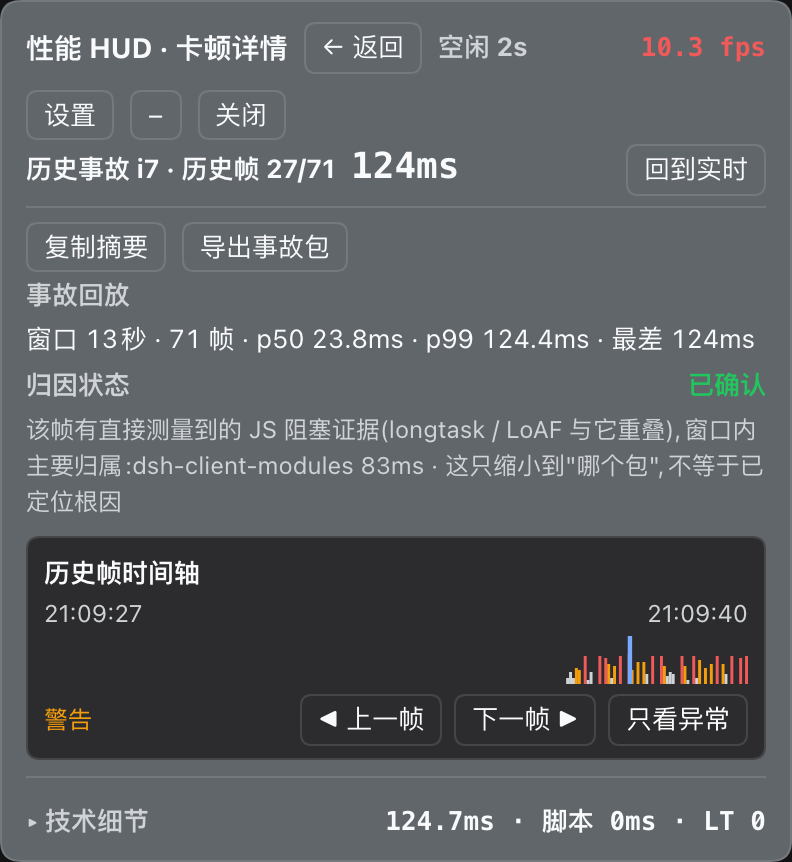
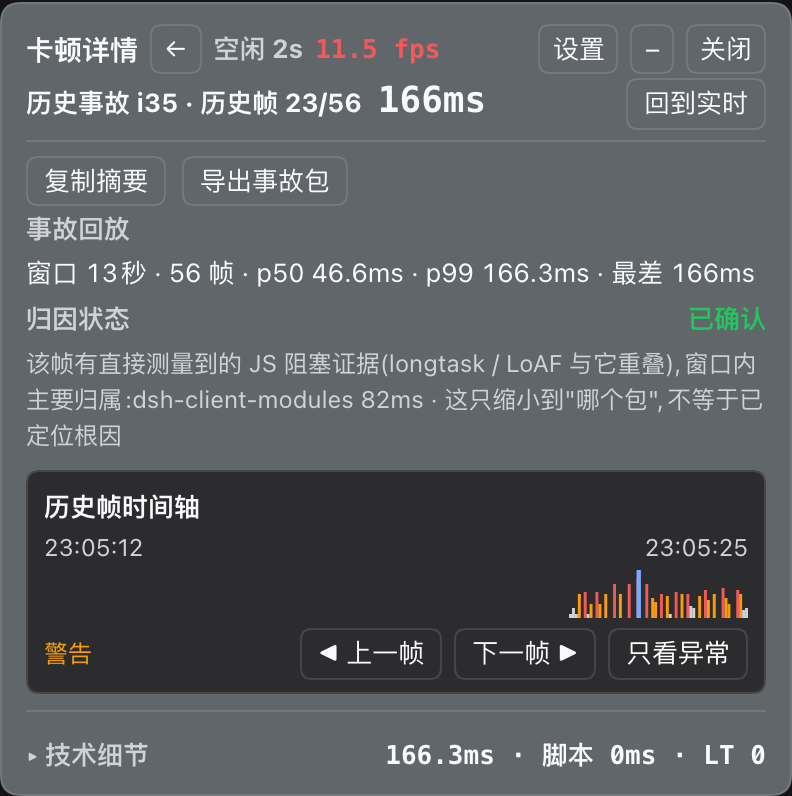
fix(panel): 标题栏改成一行永不换行,深录移出标题栏
标题栏原来是一行 `flexWrap: wrap`,分组靠 `59.9 fps` 上的 `margin-left: auto` 假装。这一行里
每个元素都是 `flex: 0 0 auto`(§5「标签不收缩」本来是给**数据行**写的),总宽一超,浏览器就按
DOM 顺序把**尾部三个控件整组**丢到第二行、还左对齐 —— 看着像下面那一块的动作按钮。主界面一行
放得下、卡顿详情放不下,于是同一个组件在不同视图下的"按钮位置关系不一样",那三个其实是全局控件。

改法(真页面量出来的账,396 面板 = 372 内容宽):
- `S.head` 去掉 `flexWrap`,显式分 `headLeft`(可压缩:`minWidth: 0` + `overflow: hidden`)与
  `headRight`(控件);标题 / 场景标签可让位(ellipsis),**控件不让位**。分组不再用 auto margin。
- 头部间距 8→6、头部按钮 `padding: 2px 6px`(`S.headBtn`,只作用于这一行)。
- **「深录」从标题栏移到开发者详情的标签页行**:它是唯一"只在某一屏出现"的头部控件,却占着最挤
  那一行(实测把该屏标题挤到 21px);标签页行本来就换行,多它一个不增高。
- 返回键文案 `← 返回` → `←`(悬停给"回到主界面");子页标题不再拼品牌名(「性能 HUD · 卡顿详情」
  → 「卡顿详情」,品牌名进悬停),它与下面第一行的上下文标题在回答同一个问题。

为什么非要算术而不是"看着塞得下":zh 详情页原来差约 14px,收紧后**仍差 0.17px** —— 亚像素级的
flex 收缩就足以让标题出省略号(用 `scrollWidth` 量还看不出来,得看 `getBoundingClientRect` 的小数,
`clientWidth` 会把它取整掉)。现在四个视图都是**一行、零溢出、零裁剪**:标题 70 / 56px 完整、
场景完整、控件在右端;英文下标题会让位(设计如此:文字让位、控件不让)。

回归测试:`logic.mjs` 新增四条静态断言(不换行 + 显式两组、没有 `margin-left: auto`、只有标题与
场景可让位、头部按钮 ≤4 个、深录不在标题栏而在标签页行)+ 一条词典长度预算(视图名 zh ≤5 字 /
en ≤17 字符)。验收底座:`tools/cdp.mjs` 的 `waitForHud` 判据从"含『性能 HUD』文案"改成"根节点存在
且文本非空" —— 子页标题不再含品牌名,而落盘的视图是滚动的,旧判据会把"上次停在开发者详情"报成
"boot 失败,或槽位条目被外壳停用"(实测踩过一次);`check-incident` / `check-counts` 按新文案点返回键。

验证:606 条离线断言全绿;真页面 `check-panel` / `check-incident` / `check-counts` / `check-storage`
四个验收器全绿;九张 README 截图重出(高度从两行头部的 519/463 降到 503/429)。

文档:AGENTS §5 新增"标题栏是一行永不换行的工具条"那条(含来历与三条实测硬性)、§0.1 深录开关位置、
README / README_EN 的返回键与深录位置、CHANGELOG。

diff --git a/client.js b/client.js
@@ -6712,7 +6712,7 @@ window.__ModuleLoader__.load({
 				packReadmePrivacy: '包内不含聊天正文、提示词、Cookie、Token 与请求头(不是筛掉了,是本来就没采);页面地址只保留 origin + path,用户目录降级成 ~,UA 只留主版本与系统。这是减法,不是匿名化。',
 				packReadmeNotes: '在别的工具里读 incident.json 时:帧的 t 是页面时间轴毫秒,要靠 incident.env.perfOrigin 换成墙钟;loaf 与 frames 是同一信号的两个视图,别相加;blocking 可以是 0 而这一帧仍然很重。',
 				// ── 视图模型(方案 1:主界面 / 卡顿详情 / 开发者详情 / 设置)──
-				viewDev: '开发者详情', viewSettings: '设置', back: '← 返回',
+				viewDev: '开发者详情', viewSettings: '设置', back: '←',
 				// ⚠ 这一组是补上来的:上一轮它们**只被引用、没进词典**,面板上直接印出了 key 名
 				// (viewIncident / packFilesLabel / storageKeys …)。新加的"引用的键必须在词典里"那条断言
 				// 专门挡这一类 —— 死键断言管不到它。
@@ -6918,7 +6918,7 @@ window.__ModuleLoader__.load({
 				packReadmePrivacy: 'The pack contains no chat text, prompts, cookies, tokens or request headers (never collected, not filtered out); page URLs keep origin + path only, home directories become ~, and the UA keeps just the major version and OS. This is subtraction, not anonymisation.',
 				packReadmeNotes: 'When reading incident.json elsewhere: frame t is page-timeline milliseconds and needs incident.env.perfOrigin to become wall clock; loaf and frames are two views of one signal, never add them; blocking can be 0 while the frame is still heavy.',
 				// view model (scheme 1: main / incident detail / developer details / settings)
-				viewDev: 'Developer details', viewSettings: 'Settings', back: '← Back',
+				viewDev: 'Developer details', viewSettings: 'Settings', back: '←',
 				viewIncident: 'Stall detail', backHint: 'Back to the overview (that screen only answers five questions)',
 				packFilesLabel: 'diagnostic pack', packFilesHint: 'the AI path: format note + summary + raw evidence + how to read it',
 				packFilesValue: 'manifest.json · summary.md · incident.json · README.md',
@@ -7033,8 +7033,19 @@ window.__ModuleLoader__.load({
 					? { width: 396, maxHeight: '82vh', overflowY: 'auto', overflowX: 'hidden', padding: '10px 12px' }
 					: { padding: '6px 10px' }),
 			}),
-			head: { display: 'flex', alignItems: 'center', gap: 8, flexWrap: 'wrap' },
-			brand: { fontWeight: 700, fontSize: 14, color: 'var(--dsw-alias-label-primary)' },
+			// ⚠ **头部一行永不换行**(以前是 flexWrap: 'wrap'):那一行里每个元素都是 `flex: 0 0 auto`
+			// (见下面 label / btn 那两条"不收缩"规则),一旦总宽超了就按 DOM 顺序把**尾部的控件整组**
+			// 丢到第二行、还左对齐 —— 看上去像下面那一块的按钮。现在分成显式两组:左组可压缩
+			// (标题 ellipsis 先让位),右组是不可让步的控件。分组也不再靠某个元素上的 margin-left:auto
+			// (那个技巧只在它所在的那一行生效,一换行就散)。
+			head: { display: 'flex', alignItems: 'center', gap: 6 },
+			headLeft: { display: 'flex', alignItems: 'center', gap: 6, flex: '1 1 auto', minWidth: 0, overflow: 'hidden' },
+			headRight: { display: 'flex', alignItems: 'center', gap: 6, flex: '0 0 auto' },
+			// 工具条的按钮比正文里的按钮窄一点(padding 8→6):这一行是不可换行的,省下的 4px × 3
+			// 就是"标题还能不能完整显示"的差价(实测:不收紧时 zh 详情页差 14px,标题被裁到 48px)
+			headBtn: { padding: '2px 6px' },
+			// 标题是这一行里唯一可以让步的元素:窄了出省略号,而不是把控件挤到第二行。
+			brand: { fontWeight: 700, fontSize: 14, color: 'var(--dsw-alias-label-primary)', minWidth: 0, overflow: 'hidden', textOverflow: 'ellipsis', whiteSpace: 'nowrap' },
 			row: { display: 'flex', alignItems: 'baseline', justifyContent: 'space-between', gap: 12, marginTop: 4 },
 			// 标签不换行、不收缩(原来 flex:1 1 auto 会被长数值挤成一字一行);
 			// 数值占满剩余宽度、右对齐、必要时在自己那一列换行。
@@ -7449,7 +7460,13 @@ window.__ModuleLoader__.load({
 			return kids;
 		}
 
-		/** 开发者详情的标签页行:一次看一组,不把技术数据全铺在一屏(能力一个都没删)。 */
+		/**
+		 * 开发者详情的标签页行:一次看一组,不把技术数据全铺在一屏(能力一个都没删)。
+		 * 尾部跟着「深录」—— 它是插桩开关(有代价、默认关),只属于这一屏与设置页。**它不放在
+		 * 标题栏里**:那一行是不可换行的工具条(见 S.head 的说明),而它是唯一"只在某一屏出现"的
+		 * 控件 —— 实测把这一屏的标题挤到 21px(≈1.5 字)。这一行本来就换行(五个标签页本来就两行),
+		 * 多它一个不增高。
+		 */
 		function devTabRow(props) {
 			const t = translate;
 			const tab = props.tab;
@@ -7464,7 +7481,13 @@ window.__ModuleLoader__.load({
 				row('dom', t('devTabDom'), t('devTabDomHint')),
 				row('host', t('devTabHost'), t('devTabHostHint')),
 				row('tools', t('devTabTools'), t('devTabToolsHint')),
-				row('raw', t('devTabRaw'), t('devTabRawHint')));
+				row('raw', t('devTabRaw'), t('devTabRawHint')),
+				h('button', {
+					type: 'button',
+					style: { ...S.btn, color: state.deep ? 'var(--dsw-alias-brand-primary)' : undefined },
+					title: t('deepHint'),
+					onClick: () => setDeep(state.deep === false),
+				}, `${t('deepShort')}${state.deep ? '✓' : ''}`));
 		}
 
 		/**
@@ -7950,7 +7973,7 @@ window.__ModuleLoader__.load({
 				frame === null ? null : `${Math.round(frame.ms ?? 0)}ms`,
 				h('button', { type: 'button', style: S.btn, title: t('backToLiveHint'), onClick: showLiveMode }, t('backToLive'))));
 			// 这一屏**唯一**的动作条:返回在标题栏(每个视图都有),这里只回答"这条事故怎么办"。
-			// 以前它在视图外面又写了一份返回 + 这两个动作 —— 同屏两个「← 返回」,位置还不一样。
+			// 以前它在视图外面又写了一份返回 + 这两个动作 —— 同屏两个「←」返回,位置还不一样。
 			kids.push(h('div', { style: S.buttons },
 				h('button', { type: 'button', style: S.btn, title: t('copySummaryHint'), onClick: () => copyText(incidentSummaryText(row), t('copySummary')) }, t('copySummary')),
 				h('button', { type: 'button', style: S.btn, title: t('exportIncidentBtnHint'), onClick: () => exportIncident(row.id) }, t('exportIncidentBtn'))));
@@ -8201,21 +8224,19 @@ window.__ModuleLoader__.load({
 			const view = state.view === 'incident' && state.watch.mode !== 'incident' ? 'main' : state.view;
 			const viewTitle = view === 'dev' ? t('viewDev') : view === 'settings' ? t('viewSettings') : t('viewIncident');
 			const head = h('div', { style: S.head },
-				h('span', { style: S.brand }, view === 'main' ? t('title') : `${t('title')} · ${viewTitle}`),
-				view === 'main' ? null : h('button', { type: 'button', style: S.btn, title: t('backHint'), onClick: () => setView('main') }, t('back')),
-				h('span', { style: { ...S.label, color: scene.color } }, scene.text),
-				h('span', { style: { ...S.num, flex: '0 0 auto', marginLeft: 'auto', color: levelFrame(state.fps, state.frameWorst) } }, `${state.fps.toFixed(1)} fps`),
-				// 「深录」是插桩开关(有代价、默认关):它只属于**开发者详情**那一屏与设置页。
-				// 以前它在每个视图的标题栏里都有一份,普通用户在卡顿详情里看到它只能猜。
-				view === 'dev' ? h('button', {
-					type: 'button',
-					style: { ...S.btn, color: state.deep ? 'var(--dsw-alias-brand-primary)' : undefined },
-					title: t('deepHint'),
-					onClick: () => setDeep(state.deep === false),
-				}, `${t('deepShort')}${state.deep ? '✓' : ''}`) : null,
-				h('button', { type: 'button', style: S.btn, title: t('settingsHint'), onClick: () => setView(view === 'settings' ? 'main' : 'settings') }, t('viewSettings')),
-				h('button', { type: 'button', style: S.btn, title: open ? t('collapse') : t('expand'), onClick: toggle }, open ? '–' : '+'),
-				h('button', { type: 'button', style: S.btn, title: t('turnOff'), onClick: () => setEnabled(false) }, t('turnOff')));
+				h('div', { style: S.headLeft },
+					// 子页只写视图名:「性能 HUD ·」那一段与下面第一行的上下文标题(`历史事故 i35xx · 历史帧 …`)
+					// 说的是同一件事(我在哪),而它是这一行里唯一能让位的文字。品牌名进悬停。
+					h('span', { style: S.brand, title: t('title') }, view === 'main' ? t('title') : viewTitle),
+					view === 'main' ? null : h('button', { type: 'button', style: { ...S.btn, ...S.headBtn }, title: t('backHint'), onClick: () => setView('main') }, t('back')),
+					// 场景标签与标题一样是**文字**,一样可以让位(先出省略号):不变的是控件。
+					// 少了这一条,开发者详情那一屏(返回 + 深录 + 设置 + 收起 + 关闭)在 zh 下仍会超 ~16px。
+					h('span', { style: { ...S.label, color: scene.color, flex: '0 1 auto', minWidth: 0, overflow: 'hidden', textOverflow: 'ellipsis' } }, scene.text),
+					h('span', { style: { ...S.num, flex: '0 0 auto', color: levelFrame(state.fps, state.frameWorst) } }, `${state.fps.toFixed(1)} fps`)),
+				h('div', { style: S.headRight },
+					h('button', { type: 'button', style: { ...S.btn, ...S.headBtn }, title: t('settingsHint'), onClick: () => setView(view === 'settings' ? 'main' : 'settings') }, t('viewSettings')),
+					h('button', { type: 'button', style: { ...S.btn, ...S.headBtn }, title: open ? t('collapse') : t('expand'), onClick: toggle }, open ? '–' : '+'),
+					h('button', { type: 'button', style: { ...S.btn, ...S.headBtn }, title: t('turnOff'), onClick: () => setEnabled(false) }, t('turnOff'))));
 
 			if (open === false) {
 				// 折叠不是"看不见":至少留下 fps / 最差帧 / 最差 longtask 三个读数。

diff --git a/AGENTS.md b/AGENTS.md
@@ -22,7 +22,7 @@
 | **现场**(展开面板) | 想看一眼 | **主界面**只回答五个问题(当前状态 / 最近一次卡顿 / 可能原因 / 最近趋势 / 下一步);技术数据进**开发者详情**的五个标签页(帧与归因 / DOM 与堆 / 宿主与链路 / 工具箱 / 原始数据,内层仍是 `state.groups` = `detail` / `cross` / `dom` / `host` / `tools` / `tech`)。**卡顿详情**是"普通用户也会走到"的技术屏,所以它分两层:结论层常显(上下文标题 / 这条事故的两个动作 / 回放范围 / 归因状态 / 历史帧时间轴),技术读数全在默认收起的 `tech`(「技术细节」)里 —— 与开发者详情**共用同一份渲染**(`techGroup`) | 可忽略 |
 | **深录**(显式) | 要抓全 | 才打开原型插桩(DOM 写入 1/10 采样 + 调度点抓栈)与「精确归因」 | 有代价,必须显式开 |
 
-> ✅ **这张表现在是真的了(2026-10-08,D1)**:在那之前插桩没有独立开关 —— `start()` 一跑就把 `setTimeout/setInterval/rAF` 与 `appendChild/insertBefore/setAttribute` 全包上,「守夜 = 零插桩」只是文档上的话。现在插桩被拆进 `applyProbeState()`,只在 `state.deep` 打开时装(开关在**开发者详情标题栏**与设置页 —— 它是开发者开关,不该在每个视图的标题栏里出现),深录同时管精确归因(两者是「要抓全」的同一件事)。实测:默认 `instrumented: false`,点开 → `true`,点回去 → `false`,面板 `errors` 全程 0。
+> ✅ **这张表现在是真的了(2026-10-08,D1)**:在那之前插桩没有独立开关 —— `start()` 一跑就把 `setTimeout/setInterval/rAF` 与 `appendChild/insertBefore/setAttribute` 全包上,「守夜 = 零插桩」只是文档上的话。现在插桩被拆进 `applyProbeState()`,只在 `state.deep` 打开时装(开关在**开发者详情的标签页行**与设置页 —— 它是开发者开关,不该占标题栏那一行),深录同时管精确归因(两者是「要抓全」的同一件事)。实测:默认 `instrumented: false`,点开 → `true`,点回去 → `false`,面板 `errors` 全程 0。
 
 **明确不做**(生态里已经有人做了;重复做比谁都不做更糟,详见 §12):
 
@@ -202,6 +202,7 @@ scope 用固定这几个:`client` / `host` / `attribution` / `panel` / `isolatio
 - **长文本用块式 + 主动断行**:可能超一行的行(概览、折叠摘要)用"标签独占一行 + 值左对齐 + `white-space: pre-line` 自己给 `\n`",不要赌浏览器宽度(曾断在 `最多` 后面,把 `ChatView 22×` 甩到下一行)。
 - **能不说就不说**:「最多」与「最差那条」名字相同时整行不显示(它只是把同一句话说两遍);说明文字放 `title` 悬停,不占正文。概览两行同理:`overviewLine1()` **已删掉 `(最差那条:未归因)` 后缀** —— 它与紧接着的 `overviewLine2()` 里 `最差那条:<归属>` 的**触发条件完全相同**(都是 `primaryBlame(worst) === null`),相邻两行必然把同一句话说两遍;现在第一行只给 `帧 Xms · LT Yms · 命中 a/b`,「最差那条是谁」只由第二行给,两个口径本该分开读的提醒由第二行自己的标签承担(断言:第一行不含 `未归因`、第二行含)。「最差事件」块同理:`eventValueText(row)` 一行说清三种状态(未开录 → `未开录`;没有事故 → `还没抓到(≥100ms)` —— 阈值写在这一行里,不再另起一行重复;有事故 → `严重/警告 326ms`),`watchFlagText()` 只在"读回 / 裁掉 / 落盘失败"这类**还有话要说**时才返回第二行,未开录与"还没抓到"都不重复。两个一次性说明(`state.copyNote` / `state.pickNote`)由 `resetLayout()` 一并清掉 —— 布局都回到默认了还挂着旧说明,只会让人以为又出错了。
 - **长度预算**:概览两行与**六个**折叠组摘要都有字符上限(36 / 60 / **26** / 30 / 34 / 24 / **40** / **30**,顺序 = 概览两行 + 取证明细 / DOM 与堆 / 宿主与链路 / 工具箱 / **包 × 来源** / **技术细节**),由 `tests/logic.mjs` 钉住 —— 本会话看不到浏览器渲染,只能靠预算把"又挤成三行"这类回归钉在测试里。改文案必须重跑。**这份清单以断言为准**:AGENTS 里这行曾写成 34(记的是另一组数字),对不上时改文档,不要改断言。第五组「包 × 来源 · 窗口」的摘要(`crossSummary`)从"没有预算"补上了 —— 它的名字与来源都可能很长(`dsh-client-ui-renderer · DOMWebSocket.onmessage 1234ms` 实测 **53** 字符,在 396px 里会折行),现在用 `clipName()` 把两个名字各自截到 `CROSS_SUMMARY_NAME_MAX` / `CROSS_SUMMARY_SRC_MAX`(14 / 15,完整名字在展开后的交叉表里)。补预算时要拿**真实量级**的名字(见 §8 第 13 条)。
+- **标题栏是**一行永不换行**的工具条:显式左右两组,只有文字可以让位**。`S.head` 不带 `flexWrap`,分 `headLeft`(可压缩:`minWidth: 0` + `overflow: hidden`,里面是标题 / 返回键 / 场景标签 / fps)与 `headRight`(控件,`flex: 0 0 auto`:设置 / 收起 / 关闭)。来历是一次真事故:工具条里每个元素都是 `flex: 0 0 auto`(上面「标签不收缩」那条本来是给**数据行**写的),总宽一超,浏览器就按 DOM 顺序把**尾部三个控件整组**丢到第二行、还左对齐 —— 看着像下面那一块的动作按钮;主界面一行放得下、卡顿详情放不下,于是"两个头部的按钮位置关系不一样"。分组也**不许**再用某个元素上的 `margin-left: auto`(那个技巧只在它所在的那一行生效,一换行就散)。三条实测出来的硬性:① 文字优先级是**标题 > 场景标签 > 其余**,场景用 `flex: 0 100 auto` 先让位(「空闲…」还读得出要紧的那个词,「开发者详…」等于没写);② **亚像素收缩就足以触发省略号** —— zh 详情页原来只差 0.17px,所以头部间距用 6、头部按钮 `padding: 2px 6px`(`S.headBtn`,只作用于这一行);③ **新增头部控件前先量**:头部预算现在是 4 个控件 + 标题 / 场景 / `←`,「深录」因此从标题栏移到了开发者详情的标签页行(它是唯一"只在某一屏出现"的头部控件,却占着最挤那一行 —— 实测把该屏标题挤到 21px)。`← 返回` 缩成 `←`(悬停给全文)也是这笔账的结果。
 - **单位一致性**:同一张表里不许一处给 `/s`、另一处给累计;任何"和邻居不同单位"的读数都要有断言(曾出现"上面是 /s、下面给累计")。
 - **折叠组默认不做昂贵分析,现在由 `group()` 的 thunk 保证**:`group(key, label, summary, ...children)` 支持"唯一一个 child 且是个函数"的形式,折叠时**连函数体都不进**;六个调用点(`detail` / `cross` / `dom` / `host` / `tools` / `tech`)全传 thunk,所以「取证明细」与「技术细节」收起时脚本按包 / 交叉表 / 帧条一次都不算。代价要记住:**`cross` 嵌在「取证明细」的 thunk 里,「技术细节」又嵌着「取证明细」那条链上的同一批块** —— 一展开任一层,调用方就先构造 `crossTable(scriptPkgTally())` 与 `kids` 数组(4×5 格,代价低),所以窗口聚合那份缓存不能省。摘要那一行(`techSummary`)即使收起也会被求值,所以它**只读已经算好的 `detail`**,不重新采、不重新解析。
 - **可点 / 不可点的界线(不要做假按钮)**:可点 = 「按来源 / 按包」小表的**具名行**(→ `copyText` 复制「名字 + 毫秒」,成功/失败都照实写进 `state.copyNote`)、工具箱事故清单行(→ 选中)、帧条**有 LoAF 的格子**(→ 钉住那一帧)、组头(→ 折叠)、**可疑脚本的每一行**(→ 复制那条证据行);**不可点** = 堆叠条的**色段**本身(`cursor` 是 `default`)、「其余」那一行(它是合计数,没有单个名字可复制)。
@@ -268,7 +269,7 @@ scope 用固定这几个:`client` / `host` / `attribution` / `panel` / `isolatio
 - **场景标签**(标题栏 `流式` / `空闲 Ns`)是解读所有数字的前提;空闲基线要 60 秒净增为 0 才算真的空闲。
 - **发生频次与留存份数是两套数据(2026-10-12 起)**:`state.watch.captured/coalesced/dropped/trimmedByBytes/deduped` 是**本次会话**的计数器(刷新即归零,只进导出件的 `context.store` / `watch`);`state.tally` 是**跨刷新**的时间桶(`LS_TALLY` = `dsh-perf-hud:tally:v1`,分钟桶 `TALLY_MINUTES`=1440 ≈ 24h + 日汇总 `TALLY_DAYS`=30,桶是 `TALLY_FIELDS` 那 7 元数组)。口径只有一个:**检测到 = triggered**(一次卡顿一串触发只算一次;被 `triggerCapture` 并进 pending、或落在 `coveredUntil` 里的触发**不算新的一次**)/ **coalesced 是同串密度,不是次数**(把两者相加会把一次停顿记成十几次,实测踩过)/ **已保存现场 = `incidents.length`** / **丢失 = (triggered − captured) + dropped + trimmed + failed**。为什么必须两套:留存清单受容量限制(最差 10 + 每天 1),拿它回答"最近一小时几次"会系统性少报 —— 被挤掉的卡顿不是没发生。三条不许越界:① 折叠药丸那一格说的是**检测到**(24h、跨刷新),不是留存份数;② `clearIncidents()` **不清**计数桶(清掉的是证据,不是事实),要清频次得显式 `clearTally()`;③ 窗口边界落在**分钟桶**上,`tallyWindow()` 把 `coveredFromMs/coveredToMs` 一起给出来,写范围时用它,不许吹成"正好 24 小时"。落盘走 2 秒合并定时器(`markTallyDirty`):一次卡顿里 `coalesced` 每帧都会加,不能每帧写盘;读回时形状不对的桶**整桶丢掉**并把原因记进 `tally.loadError`,不静默当成 0。
 - **能力矩阵与诊断包各只有一处来源(2026-10-12 起)**:`capabilities()` 是"哪一层采到了 / 哪一层没有 / 为什么 / 属于哪一档出处"的**唯一事实来源**(叶子形如 `{ state, provenance, reason }`,state ∈ on/degraded/off/unsupported,provenance ∈ measured/inferred/unknown);事故包那串 `missing:` / `howToAdd` **由 `capabilityMissing(row)` 从它推出来**,不再是手写的一串 `if` —— 但每一行的 `前缀:` 形状必须保留(线上与离线都按前缀断言)。`causeCandidates(row)` 是"可能原因"的**唯一生成处**(面板与诊断包读同一份),三条不许越界:① 每条候选都带 `limits`,而且限制里一定有那句"不等于已定位根因";② `worstFrameJs === 'none'` 时不给节流结论,只有 `summary.suspectedThrottle` 成立才写成"更像…";③ `basis` 全部来自已采到的字段。`buildPack` / `manifestFor` / `diagnosticSummary` / `packPreview` 是**纯函数**(不碰 DOM),所以离线套件能直接断言格式 —— 摘要按固定五段(摘要 / 假设 / 缺失 / 下一步 / 元信息),`incident.json` 与面板「导出事故包」同源,包内不含聊天正文 / 提示词 / Cookie / Token / 请求头(本来就没采,不是筛掉的)。⚠ 加正文文案时注意:摘要里**借用**的 `missing` 行本身带 markdown 记号(那是给 .md 读的),而**面板正文**仍不许带(有断言钉住 `VISIBLE_PLAIN_KEYS`)。
-- **界面是四个视图 + 开发者详情五标签页(方案 1,2026-10-12)**:`state.view` ∈ `main` / `incident` / `dev` / `settings`,`state.devTab` ∈ `frames` / `dom` / `host` / `tools` / `raw`,落盘只存这三个字段(`LS_VIEW`),**不存任何读数**。三条硬性:① **主界面只读纯函数**(`healthVerdict` / `causeCandidates` / `trendSummary` / `selectedIncident`),界面自己不做推断 —— 与 `detailContext()` 同一条规矩;② **视图只在被选中时构造**(`view === 'incident' ? incidentDetail(detailContext()) : null`):`incidentDetail` 要求"现在真的在历史上下文里",无条件先算一遍会在实时上下文里抛错(实测:面板整块被外壳停用,而三套件全绿);③ **监测不可用不许伪装成正常**:HUD 关着 / LoAF 没装上时主界面给"监测受限" + 原因,阈值与判色共用 `frameLevel()`。开发者详情的五个标签页**照实映射现有分组**(帧与归因 = 概览 + 最差事件 + 回调归因 + 取证明细;DOM 与堆;宿主与链路;工具箱;原始数据 = 导出与存储键位),不硬套概念图的名字。折叠药丸展开时**回到主界面**(普通用户点开不该看到一屏技术数据)。**卡顿详情那一屏要按"普通用户也会走到"来排**:常显只有结论层(上下文标题 / 复制摘要 / 导出事故包 / 回放范围 / 归因状态 / 历史帧时间轴),技术读数全在 `tech`(「技术细节」)里默认收起,而那一组与开发者详情**共用同一份渲染**(`techGroup` → 环 / 脚本拆解 / long task / 可疑脚本 / 交叉表 / 口径)—— 以前同一份 `incidentDetail` 在开发者详情里是可折叠的、在普通用户那一屏却是**全平铺**的,方向正好反了。另两条同源收敛:① 一屏只有一个「← 返回」(标题栏;视图外那一行动作已删);② 事故 id 与"这一帧多少 ms"各只印一次(上下文标题),时间轴卡里不重复。
+- **界面是四个视图 + 开发者详情五标签页(方案 1,2026-10-12)**:`state.view` ∈ `main` / `incident` / `dev` / `settings`,`state.devTab` ∈ `frames` / `dom` / `host` / `tools` / `raw`,落盘只存这三个字段(`LS_VIEW`),**不存任何读数**。三条硬性:① **主界面只读纯函数**(`healthVerdict` / `causeCandidates` / `trendSummary` / `selectedIncident`),界面自己不做推断 —— 与 `detailContext()` 同一条规矩;② **视图只在被选中时构造**(`view === 'incident' ? incidentDetail(detailContext()) : null`):`incidentDetail` 要求"现在真的在历史上下文里",无条件先算一遍会在实时上下文里抛错(实测:面板整块被外壳停用,而三套件全绿);③ **监测不可用不许伪装成正常**:HUD 关着 / LoAF 没装上时主界面给"监测受限" + 原因,阈值与判色共用 `frameLevel()`。开发者详情的五个标签页**照实映射现有分组**(帧与归因 = 概览 + 最差事件 + 回调归因 + 取证明细;DOM 与堆;宿主与链路;工具箱;原始数据 = 导出与存储键位),不硬套概念图的名字。折叠药丸展开时**回到主界面**(普通用户点开不该看到一屏技术数据)。**卡顿详情那一屏要按"普通用户也会走到"来排**:常显只有结论层(上下文标题 / 复制摘要 / 导出事故包 / 回放范围 / 归因状态 / 历史帧时间轴),技术读数全在 `tech`(「技术细节」)里默认收起,而那一组与开发者详情**共用同一份渲染**(`techGroup` → 环 / 脚本拆解 / long task / 可疑脚本 / 交叉表 / 口径)—— 以前同一份 `incidentDetail` 在开发者详情里是可折叠的、在普通用户那一屏却是**全平铺**的,方向正好反了。另两条同源收敛:① 一屏只有一个返回键(标题栏;视图外那一行动作已删);② 事故 id 与"这一帧多少 ms"各只印一次(上下文标题),时间轴卡里不重复。
 - **命中 a/b** = 四条腿任一给出名字的长任务数 / 长任务总数。**它会被 DOM 腿抬高**(流式时写入窗口内几乎必然有写入),必须配合「归属 Top」分布读。
 - **帧内未归因**(2026-10-07 起在「取证明细」组里,不在常显):`idle = 帧间隔 − 插桩回调耗时`,所以**没插桩时它退化成平均帧间隔**(实测 16.7ms 被当成未归因)—— 那时面板直接写「要深录」,连"该帧几乎无 JS 解释"的结论也不报(`unexplainedFrame` 先要求 `state.deep === true`;不要求的话这条结论在**每一条**长帧上都成立,等于恒报)。插桩后:峰值 ≈ 最差帧(≥95%)时给结论,并提示用 Rendering 面板的 Paint flashing 交叉验证。**CSS 动画只在这里现形**(它不经 JS 调度器)。
 - **帧严重度只有一个口径:`frameSeverity(row) = max(blocking, 帧时长)`** —— 判据、排序、标签**同一个函数**(以前 `worstLoaf` / `loafRanks` 只看 `blocking`、`pickList` 看 `max`,于是"自动选中的那条"可能不在清单里,标签显示 `帧 0/N`)。⚠ **不能只看 `blocking`**:实测一次 45 帧的会话里 `blocking` **全部 < 100ms**(最大值 92ms),只看它会让清单退回"全部",而"帧时长"才是面板自己的严重度口径(判色 120/200ms、圆环上 `帧里花在哪` 也是它)。

diff --git a/README.md b/README.md
@@ -151,7 +151,7 @@ dsh plugin --profile web add "$PWD"
 | 视图 | 给谁 | 回答什么 |
 |---|---|---|
 | **主界面**(默认) | 普通用户 | 现在顺不顺 / 最近一次卡了多久、什么时候 / 可能是什么原因(每条都带**支持与限制**)/ 最近 1 小时或 24 小时发生几次、有没有重复线索;两个主操作是「查看这次卡顿」与「导出诊断报告」 |
-| **卡顿详情** | 想看那一次 | 独立一屏,顶部是「← 返回」;**默认只给结论层** —— 窗口范围、归因状态、真实时间轴与翻帧(◀ ▶ + 「只看异常」),加上对这条事故的两个动作(复制摘要 / 导出事故包);**技术读数收在默认折叠的「技术细节」里**(帧内分解 / 脚本细拆 / 重叠 long task / 可疑脚本 / 包 × 来源 / 口径),展开才看 —— 数据全部来自**它自己**的事故包 |
+| **卡顿详情** | 想看那一次 | 独立一屏,顶部有一个返回键(「←」,悬停给"回到主界面");**默认只给结论层** —— 窗口范围、归因状态、真实时间轴与翻帧(◀ ▶ + 「只看异常」),加上对这条事故的两个动作(复制摘要 / 导出事故包);**技术读数收在默认折叠的「技术细节」里**(帧内分解 / 脚本细拆 / 重叠 long task / 可疑脚本 / 包 × 来源 / 口径),展开才看 —— 数据全部来自**它自己**的事故包 |
 | **开发者详情** | 开发者 | 5 个标签页:**帧与归因** / **DOM 与堆** / **宿主与链路** / **工具箱** / **原始数据** —— 现有能力一个都没删,只是从"一屏铺开 + 折叠组"变成"选一个标签页看一组"(「深录」开关只在这一屏的标题栏与设置页出现) |
 | **设置** | 所有人 | 记录模式(守夜默认常开 / 深录要显式开)、数据保留策略、隐私与脱敏口径 |
 
@@ -176,7 +176,7 @@ dsh plugin --profile web add "$PWD"
 ### 怎么走到每一屏
 
 1. **展开**:点右下角药丸的 `+` → 回到**主界面**(药丸上那三个数是 fps / 最差帧 / 最近 24 小时检测到几次);
-2. **看那一次卡顿**:主界面「查看这次卡顿」→ **卡顿详情**(顶部「← 返回」回主界面);这一屏默认只有结论与时间轴,想看这一帧的时间去向就展开「▸ 技术细节」;
+2. **看那一次卡顿**:主界面「查看这次卡顿」→ **卡顿详情**(顶部「←」回主界面);这一屏默认只有结论与时间轴,想看这一帧的时间去向就展开「▸ 技术细节」;
 3. **看技术数据**:主界面底部「开发者详情(技术数据)」→ 五个标签页(「深录」开关在这一屏的标题栏与设置页);标题栏右上「设置」→ 设置页;
 4. **交给 AI**:主界面「导出诊断报告」→ 先出**预览卡**(四份文件 + 压缩包大小 + 「备注:已置空」)→「生成并导出」下载**一个 zip**;
 5. **本机排查**:开发者详情 · 原始数据里有「完整技术导出(保留备注)」——那条路**保留**你手敲的备注,不是脱敏件,别直接交出去。
@@ -196,7 +196,7 @@ dsh plugin --profile web add "$PWD"
 |---|---|---|---|
 | **守夜**(默认) | 一直开着 | 帧级环形缓冲 + LoAF 观察器 + 交互计时;自动留存最差 10 次 + 每天最差 1 条 | **零插桩**:只挂本来就在跑的 rAF 和两个 `PerformanceObserver`,不动任何全局 |
 | **现场** | 想看一眼,展开面板 | 概览 / 最差事件 / 回调归因 Top3 / 守夜那行;其余五组折叠 | 与守夜**同一档采集** —— "展开看看"不会改变被测对象 |
-| **深录** | 开发者详情标题栏的「深录」/ 设置页 | 才装上 `setTimeout` / `setInterval` / `rAF` 与 DOM 写入的包装,并顺带拉那份 12MB 的合并批 sourcemap(精确归因) | 有代价,**必须显式开**;关掉立刻还原成原生引用 |
+| **深录** | 开发者详情的标签页行 / 设置页 | 才装上 `setTimeout` / `setInterval` / `rAF` 与 DOM 写入的包装,并顺带拉那份 12MB 的合并批 sourcemap(精确归因) | 有代价,**必须显式开**;关掉立刻还原成原生引用 |
 
 **开发者详情**里分五个标签页(帧与归因 / DOM 与堆 / 宿主与链路 / 工具箱 / 原始数据 —— 见上一节「界面结构」),每个标签页里的组(取证明细 / **技术细节** / 包 × 来源 / DOM 与堆 / 宿主与链路 / 工具箱 —— 「包 × 来源」嵌在「取证明细」里,「技术细节」是卡顿详情那一屏的技术读数入口,两边共用同一份渲染)默认折叠,折叠组的标题栏自带一句话摘要。折叠组**真的是惰性的**:`group()` 支持传一个函数当子节点,收起时**连函数体都不进**,「取证明细」/「技术细节」里那些派生统计(脚本按包 / 交叉表 / 帧条)在收起状态下不再每个 tick 重算。
 
@@ -263,7 +263,7 @@ dsh plugin --profile web add "$PWD"
 
 ## ⚠ 风险与边界(必读)
 
-1. **默认开启,但默认不插桩**。安装后浮层默认就显示,这一档(守夜/现场)只挂本来就在跑的 `requestAnimationFrame` 与两个 `PerformanceObserver`,**不动任何全局**;开发者详情标题栏(或设置页)那个「**深录**」开关打开之后,才会插桩 `setTimeout` / `setInterval` / `requestAnimationFrame` 以及 `Node.prototype.appendChild` / `insertBefore`、`Element.prototype.setAttribute`(1/10 采样),并顺带拉那份 12MB 的合并批 sourcemap(精确归因)。关掉深录,插桩立刻卸掉并还原成原生引用。
+1. **默认开启,但默认不插桩**。安装后浮层默认就显示,这一档(守夜/现场)只挂本来就在跑的 `requestAnimationFrame` 与两个 `PerformanceObserver`,**不动任何全局**;开发者详情的标签页行(或设置页)那个「**深录**」开关打开之后,才会插桩 `setTimeout` / `setInterval` / `requestAnimationFrame` 以及 `Node.prototype.appendChild` / `insertBefore`、`Element.prototype.setAttribute`(1/10 采样),并顺带拉那份 12MB 的合并批 sourcemap(精确归因)。关掉深录,插桩立刻卸掉并还原成原生引用。
 2. **一切可还原**。面板「关闭」或 `window.__perfHud.disable()` 会把原型方法还原成原生实现,并且只在"当前仍是我们那个 wrapper"时才还原(不会踩掉别人的包装)。
 3. **隔离实验会临时写 profile 的持久化 bundle 选择**(`pluginManager.setBundleEnabled`)。它有硬安全线:必须 `confirm`、拒绝改本插件与 `session-persistence-jsonl`、每步记宿主回执、结束后逐项核验恢复;中断也会走恢复流程。**面板上已不提供入口**,只在控制台调 `__perfHud.experiment()`(`__perfHud.marks()` 同理)—— 不想动配置就别调它。
 4. **宿主半只做两件事**:事件循环采样与一个 HTTP 路由(`/api/dsh-perf-hud/host`,受宿主自身鉴权保护,无 cookie 返回 401)。它不注册服务、不改宿主原型、不写插件自己的持久化状态。

diff --git a/README_EN.md b/README_EN.md
@@ -112,7 +112,7 @@ The panel has **four views**, one at a time (only the view name is persisted, ne
 | View | For | Answers |
 |---|---|---|
 | **Overview** (default) | everyday users | Is it smooth right now / how long was the last stall and when / what might have caused it (each candidate with its **support and limits**) / how many stalls in the last hour or 24 hours and whether a lead repeats; the two primary actions are "view this stall" and "export the diagnostic report" |
-| **Stall detail** | looking at that one stall | Its own screen with "← Back"; **the conclusion layer only** — window scope, attribution state, the real timeline with its navigation (◀ prev / next ▶ plus an "only bad" filter) and the two actions for this incident (copy summary / export pack). **All technical readings sit in a collapsed "technical details" group** (frame breakdown / script split / overlapping long tasks / suspect scripts / package × source / definitions); the data still comes from **its own** incident pack |
+| **Stall detail** | looking at that one stall | Its own screen with a back arrow ("←", hover says "back to the overview"); **the conclusion layer only** — window scope, attribution state, the real timeline with its navigation (◀ prev / next ▶ plus an "only bad" filter) and the two actions for this incident (copy summary / export pack). **All technical readings sit in a collapsed "technical details" group** (frame breakdown / script split / overlapping long tasks / suspect scripts / package × source / definitions); the data still comes from **its own** incident pack |
 | **Developer details** | developers | 5 tabs: **Frames & blame** / **DOM & heap** / **Host & link** / **Toolbox** / **Raw data** — nothing was removed, it moved from one long screen with folded groups into one group per tab (the "deep" switch lives in this screen's title bar and in Settings) |
 | **Settings** | everyone | Capture mode (night watch always on / deep recording explicit), retention policy, privacy and redaction |
 
@@ -137,7 +137,7 @@ The five tabs of **developer details** (nothing was removed, it is just split in
 ### How to reach each screen
 
 1. **Expand** the pill with `+` → the **overview** (the pill shows fps / worst frame / stalls detected in the last 24 hours);
-2. **That one stall**: "view this stall" → **stall detail** ("← Back" returns to the overview);
+2. **That one stall**: "view this stall" → **stall detail** ("←" returns to the overview);
 3. **Technical data**: "developer details" at the bottom → five tabs; the "settings" button in the header → settings;
 4. **Hand it to an AI**: "export diagnostic report" → a **preview card** first (four files + zip size + "notes: blanked") → "generate and export" downloads **one zip**;
 5. **Local debugging**: developer details · raw data has "full technical export (keeps notes)" — that one **keeps** the notes you typed, it is not redacted, so do not hand it out as-is.
@@ -160,7 +160,7 @@ so it has to be cheap, switchable and reversible itself:
 |---|---|---|---|
 | **Night watch** (default) | always on | per-frame ring buffer + LoAF observer + interaction timing; keeps the worst 10 stalls plus one worst-per-day | **zero instrumentation**: only the rAF loop that is already running and two `PerformanceObserver`s; patches nothing |
 | **Live view** | you open the panel | overview / worst event / top-3 callback attribution / the night-watch line; the other five groups collapse | **the same tier as night watch** — opening the panel does not change what is measured |
-| **Deep record** | the "deep" switch in the Developer-details title bar / Settings | only then are `setTimeout` / `setInterval` / `rAF` and the DOM-write hooks wrapped, and the 12MB combo sourcemap is fetched (precise attribution) | has a cost and must be turned on explicitly; switching it off restores the natives immediately |
+| **Deep record** | the "deep" switch in the Developer-details tab row / Settings | only then are `setTimeout` / `setInterval` / `rAF` and the DOM-write hooks wrapped, and the 12MB combo sourcemap is fetched (precise attribution) | has a cost and must be turned on explicitly; switching it off restores the natives immediately |
 
 The panel is layered: only "is it smooth + whose fault" is always visible; the other **five** groups
 (forensics / technical details / pkg × source / DOM & heap / host & link / toolbox — "pkg × source" is nested inside

diff --git a/CHANGELOG.md b/CHANGELOG.md
@@ -4,6 +4,13 @@
 
 ## 未发布
 
+### 面板(2026-10-17,标题栏:一行永不换行)
+
+- **标题栏改成不可换行的一行**:`S.head` 去掉 `flexWrap`,显式分成 `headLeft`(可压缩:`minWidth: 0` + `overflow: hidden`)与 `headRight`(控件,`flex: 0 0 auto`);标题与场景标签可让位(ellipsis),**控件不让位**。以前那一行里每个元素都是 `flex: 0 0 auto`(§5「标签不收缩」本来是给**数据行**写的),总宽一超,浏览器就按 DOM 顺序把**尾部三个控件整组**丢到第二行、还左对齐 —— 主界面一行放得下、卡顿详情放不下,于是"两个头部的按钮位置关系不一样",而那三个其实是全局控件。分组也不再靠 fps 上的 `margin-left: auto`(它只在所在那一行生效)。
+- **量出来才敢改的宽度账**(真页面 `getBoundingClientRect`,396 面板 = 372 内容宽):zh 详情页原来差约 14px、开发者详情差约 80px。收紧头部间距与按钮内边距(8→6、`padding: 2px 6px`,只作用于头部 `S.headBtn`)后,**zh 详情页仍差 0.17px** —— 亚像素级的 flex 收缩就足以触发省略号(`scrollWidth` 取整看不出来,得看小数)。所以又两处:① **「深录」从标题栏移到开发者详情的标签页行**(它是唯一"只在某一屏出现"的头部控件,却占着最挤那一行 —— 实测把该屏标题挤到 21px;那一行本来就换行);② 返回键文案 **「← 返回」→「←」**(悬停给"回到主界面")。现在四个视图的头部都是**一行、零溢出、零裁剪**:标题 70 / 56px 完整、场景完整、控件在右端。
+- **子页标题不再拼品牌名**(「性能 HUD · 卡顿详情」→「卡顿详情」,品牌名进悬停):它与下面第一行的上下文标题(`历史事故 i35 · 历史帧 23/56`)在回答同一个问题("我在哪")。
+- **回归测试与验收底座**:新增四条静态断言(头部不换行且显式两组 / 没有 `margin-left: auto` / 只有标题与场景可让位 / 头部按钮 ≤4 个 / 深录不在标题栏而在标签页行)+ 一条词典长度预算(视图名 zh ≤5 字、en ≤17 字符);`tools/cdp.mjs` 的 `waitForHud` 就绪判据从"`innerText` 里含『性能 HUD』"改成"**根节点存在且文本非空**" —— 子页标题不再含品牌名,而 profile 里落盘的视图是滚动的,旧判据会把"上次停在开发者详情"报成"boot 失败,或槽位条目被外壳停用"(实测踩过);`check-incident` / `check-counts` 按新文案点返回键,真页面四件套全绿,九张 README 截图重出。
+
 ### 面板(2026-10-17,卡顿详情分层与界面去重)
 
 - **卡顿详情那一屏分两层**:结论层常显(上下文标题 / 复制摘要 / 导出事故包 / 回放范围 / 归因状态 / 历史帧时间轴),技术读数收进**默认折叠**的「技术细节」(`state.groups.tech`)—— 与开发者详情**共用同一份渲染**(`techGroup`)。以前同一份 `incidentDetail` 在开发者详情里是可折叠的、在普通用户点「查看这次卡顿」落到的那一屏却是**全平铺**的(实测一屏 12 个按钮、约 10 块,含三行"这一帧没有记录"),方向正好反了。
